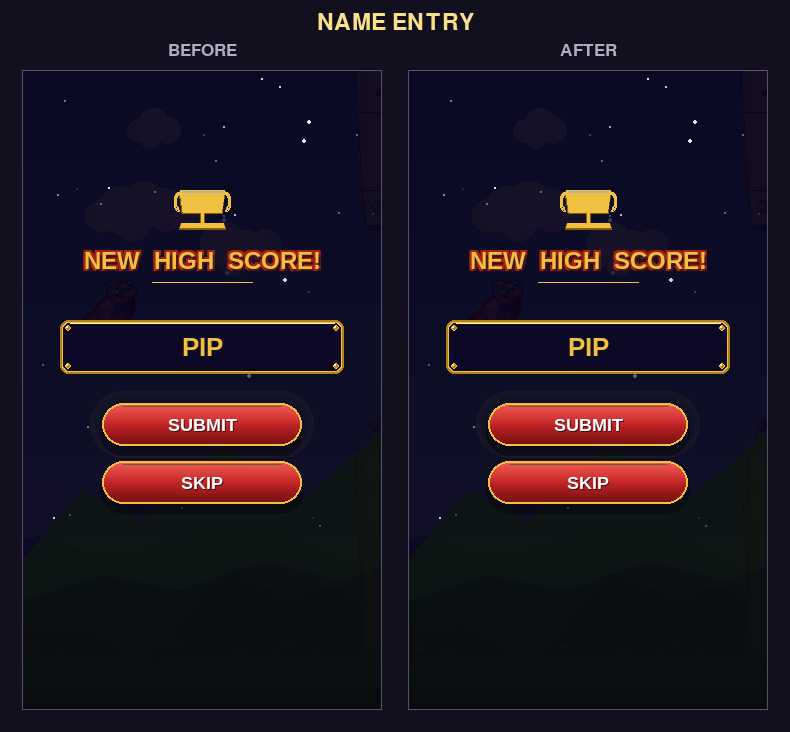
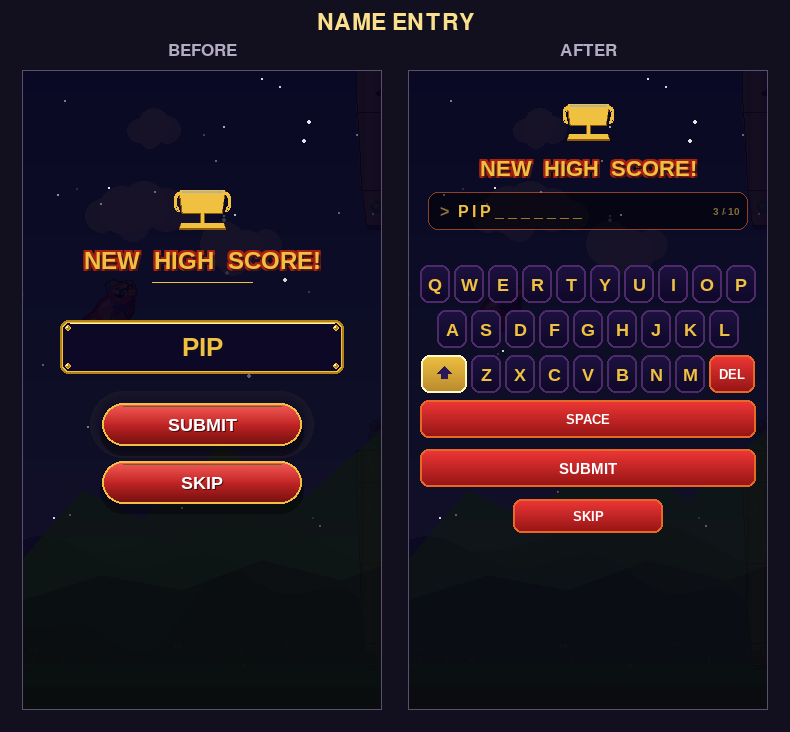
Name entry: unify on the on-screen keyboard for both build targets
The native build's name-entry was a keyboard-less nameplate (typed via a
physical keyboard) — never matching the web build, whose JS overlay shows an
on-screen QWERTY keyboard. Port that keyboard to pygame so native uses the
identical screen: draw_name_entry now renders the QWERTY layout (navy letter
keys, scarlet SPACE/SUBMIT/SKIP, shift with caps glow, a filling buffer +
N/10 counter) and exposes per-key rects; scenes.py routes taps to them
(shift/back/space/submit/skip + auto-shift-off after a letter), name length
capped at 10 to match. The web overlay is unchanged.

Refreshed before/after + a standalone current shot under docs/ui_audit/.

https://claude.ai/code/session_017Z3zLhntZrsy2aMti6pFtg

Changed region(s): [[0.5165, 0.1202, 0.9722, 0.7514], [0.9114, 0.2705, 0.9418, 0.3005]]

diff --git a/game/hud.py b/game/hud.py
@@ -1158,6 +1158,44 @@ def _score_plaque(surf, rect, score: int, best: int, new_best: bool):
     surf.blit(cf, cf.get_rect(center=(rect.centerx, rect.bottom - 20)))
 
 
+# ── Name-entry on-screen keyboard (mirrors the web overlay) ──────────────────
+_KEY_BORDER = (78, 42, 106)       # #4e2a6a — letter-key rim
+_KEY_FACE_TOP = (29, 18, 64)      # #1d1240 — letter-key gradient top
+_KEY_FACE_BOT = (15, 8, 40)       # #0f0828 — letter-key gradient bottom
+
+
+def _kbd_key(surf, rect, label, font, special=False, active=False):
+    """One virtual-keyboard key. Letter keys are navy with gold glyphs;
+    action keys (shift/back/space/submit/skip) are scarlet; an active SHIFT
+    glows gold — matching the web name-entry overlay."""
+    if active:
+        top, bot, border, txt = _GOLD_BRIGHT, (184, 138, 46), (255, 248, 200), (42, 24, 88)
+    elif special:
+        top, bot, border, txt = _SCARLET_TOP, _SCARLET_BOT, _ORANGE_BORDER, WHITE
+    else:
+        top, bot, border, txt = _KEY_FACE_TOP, _KEY_FACE_BOT, _KEY_BORDER, _GOLD_BRIGHT
+    body = pygame.Surface(rect.size, pygame.SRCALPHA)
+    for yy in range(rect.height):
+        pygame.draw.line(body, lerp_color(top, bot, yy / max(1, rect.height - 1)),
+                         (0, yy), (rect.width, yy))
+    mask = pygame.Surface(rect.size, pygame.SRCALPHA)
+    pygame.draw.rect(mask, (255, 255, 255, 255),
+                     (0, 0, rect.width, rect.height), border_radius=8)
+    body.blit(mask, (0, 0), special_flags=pygame.BLEND_RGBA_MIN)
+    pygame.draw.rect(body, border, (0, 0, rect.width, rect.height),
+                     width=2, border_radius=8)
+    surf.blit(body, rect.topleft)
+    if label:
+        img = font.render(label, True, txt)
+        surf.blit(img, img.get_rect(center=rect.center))
+
+
+def _draw_up_arrow(surf, cx, cy, s, color):
+    """Procedural SHIFT glyph (the font lacks ⇧) — triangle head + stem."""
+    pygame.draw.polygon(surf, color, [(cx, cy - s), (cx - s, cy), (cx + s, cy)])
+    pygame.draw.rect(surf, color, (cx - s // 2, cy, s, s - 1))
+
+
 class HUD:
     def __init__(self):
         self.pause_btn = PauseButton()
@@ -1167,9 +1205,10 @@ class HUD:
         # scores / rank / error / pending / target size change.
         self._lb_cache: "pygame.Surface | None" = None
         self._lb_cache_key: tuple = ()
-        # Name-entry button rects — populated each frame by draw_name_entry,
-        # read by scenes.py click-handling. Pre-init to empty rects so the
-        # first click before any draw is harmless.
+        # Name-entry key rects — list of (kind, rect) populated each frame by
+        # draw_name_entry, read by scenes.py click-handling. kind is a letter
+        # ('A'..'Z') or an action ('shift'/'back'/'space'/'enter'/'skip').
+        self.name_keys: list = []
         self.name_submit_rect = pygame.Rect(0, 0, 0, 0)
         self.name_skip_rect   = pygame.Rect(0, 0, 0, 0)
         # Run-summary button rects — populated by draw_stats each frame
@@ -1630,80 +1669,104 @@ class HUD:
             self.stats_play_again_rect = pygame.Rect(0, 0, 0, 0)
             self.stats_main_menu_rect = pygame.Rect(0, 0, 0, 0)
 
-    def draw_name_entry(self, surf, dt, buf: str):
+    def draw_name_entry(self, surf, dt, buf: str, caps: bool = True):
+        """On-screen QWERTY name-entry — the same keyboard the web overlay
+        shows, ported to pygame so the native build uses the identical screen.
+        Populates ``self.name_keys`` (list of (kind, rect)) for scenes.py to
+        hit-test. ``caps`` drives the SHIFT glow + letter case."""
         self.title_t += dt
         dim = pygame.Surface((W, H), pygame.SRCALPHA)
         dim.fill((8, 3, 26, 240))
         surf.blit(dim, (0, 0))
-
         _draw_overlay_stars(surf, self._stars, self.title_t)
+        _draw_mountain_silhouette(surf, alpha=140)
 
-        # Trophy above the title — same emblem as the TOP 10 screen.
-        _draw_trophy(surf, W // 2, H // 2 - 180, 22)
+        MAXLEN = 10
+        keys = []
 
-        # Title — gold + red outline to match the mockup
-        _outlined_text(surf, "NEW  HIGH  SCORE!",
-                       (W // 2, H // 2 - 130),
-                       size=24, px=2, shadow_offset=(2, 3))
+        # Trophy + title.
+        _draw_trophy(surf, W // 2, 52, 20)
+        _outlined_text(surf, "NEW  HIGH  SCORE!", (W // 2, 98),
+                       size=22, px=2, shadow_offset=(2, 3))
 
-        # Divider line under the title (mockup convention).
-        pygame.draw.line(surf, (*_GOLD_BRIGHT, 130),
-                         (W // 2 - 50, H // 2 - 108),
-                         (W // 2 + 50, H // 2 - 108), 1)
+        # Buffer slab: '>' prompt + ten slots that fill in + a N/10 counter.
+        br = pygame.Rect(W // 2 - 160, 122, 320, 38)
+        slab = pygame.Surface(br.size, pygame.SRCALPHA)
+        pygame.draw.rect(slab, (0, 0, 0, 120), slab.get_rect(), border_radius=10)
+        pygame.draw.rect(slab, (*_ORANGE_BORDER, 150), slab.get_rect(),
+                         width=1, border_radius=10)
+        surf.blit(slab, br.topleft)
+        pr = _font(16, True).render(">", True, _GOLD_MUTED)
+        pr.set_alpha(160)
+        surf.blit(pr, pr.get_rect(midleft=(br.x + 12, br.centery)))
+        slots = " ".join((buf[i] if i < len(buf) else "_") for i in range(MAXLEN))
+        bimg = _font(16, True).render(slots, True, _GOLD_BRIGHT)
+        surf.blit(bimg, bimg.get_rect(midleft=(br.x + 30, br.centery)))
+        ci = _font(10, True).render(f"{len(buf)} / {MAXLEN}", True, _GOLD_MUTED)
+        ci.set_alpha(150)
+        surf.blit(ci, ci.get_rect(midright=(br.right - 8, br.centery)))
 
-        # Engraved nameplate (gold rim + corner rivets + dark navy face)
-        # in place of the plain orange-bordered input field.
-        fw, fh = 284, 54
-        fx, fy = W // 2 - fw // 2, H // 2 - 70
-        plate_rect = pygame.Rect(fx, fy, fw, fh)
-        pygame.draw.rect(surf, _GOLD_BRIGHT, plate_rect, border_radius=8)
-        inner = plate_rect.inflate(-6, -6)
-        pygame.draw.rect(surf, _PANEL_DARK, inner, border_radius=6)
-        pygame.draw.rect(surf, _GOLD_DEEP, plate_rect,
-                         width=2, border_radius=8)
-        # Subtle cream highlight just inside the top edge.
-        pygame.draw.line(surf, (255, 240, 180),
-                         (plate_rect.x + 10, plate_rect.y + 3),
-                         (plate_rect.right - 10, plate_rect.y + 3), 1)
-        # Four corner rivets.
-        for rx, ry in (
-            (plate_rect.x + 8, plate_rect.y + 8),
-            (plate_rect.right - 8, plate_rect.y + 8),
-            (plate_rect.x + 8, plate_rect.bottom - 8),
-            (plate_rect.right - 8, plate_rect.bottom - 8),
-        ):
-            pygame.draw.circle(surf, _GOLD_DEEP, (rx, ry), 3)
-            pygame.draw.circle(surf, _GOLD_BRIGHT, (rx, ry), 3, 1)
-            pygame.draw.circle(surf, (255, 240, 180), (rx - 1, ry - 1), 1)
+        # Keyboard.
+        GAP, KH, ROWG, KW, SW = 4, 38, 7, 30, 46
+        lf = _font(18, True)   # letter glyphs
+        af = _font(13, True)   # action words
 
-        # Typed text — gold with a soft black drop shadow, no cursor.
-        tf = _font(26, True)
-        if buf:
-            sh = tf.render(buf, True, NEAR_BLACK)
-            sh.set_alpha(180)
-            txt = tf.render(buf, True, _GOLD_BRIGHT)
-            tr = txt.get_rect(center=(W // 2, fy + fh // 2))
-            surf.blit(sh, (tr.x + 1, tr.y + 2))
-            surf.blit(txt, tr)
-        else:
-            placeholder = _font(18, False).render("TYPE YOUR NAME…",
-                                                  True, _GOLD_MUTED)
-            placeholder.set_alpha(100)
-            surf.blit(placeholder,
-                      placeholder.get_rect(center=(W // 2, fy + fh // 2)))
+        def _row_x0(total_w):
+            return (W - total_w) // 2
 
-        # Mountain silhouette belongs to the backdrop — drawn before the
-        # buttons so SUBMIT / SKIP sit on top of any scenery, never behind it.
-        _draw_mountain_silhouette(surf, alpha=160)
+        def _letters(text, y):
+            x = _row_x0(len(text) * KW + (len(text) - 1) * GAP)
+            for ch in text:
+                rect = pygame.Rect(x, y, KW, KH)
+                _kbd_key(surf, rect, ch if caps else ch.lower(), lf)
+                keys.append((ch, rect))
+                x += KW + GAP
 
-        # Paired action buttons — SUBMIT promoted to the primary pill
-        # so it carries the gold halo in the mockup.
-        self.name_submit_rect = _pill_btn(
-            surf, (W // 2, H // 2 + 34), "SUBMIT",
-            size=18, alpha=255, min_width=200, primary=True)
-        self.name_skip_rect = _pill_btn(
-            surf, (W // 2, H // 2 + 92), "SKIP",
-            size=18, alpha=255, min_width=200)
+        y = 195
+        _letters("QWERTYUIOP", y)
+        y += KH + ROWG
+        _letters("ASDFGHJKL", y)
+
+        # Row 3: SHIFT + ZXCVBNM + DEL.
+        y += KH + ROWG
+        mid = "ZXCVBNM"
+        x = _row_x0(SW * 2 + len(mid) * KW + (len(mid) + 1) * GAP)
+        shift_rect = pygame.Rect(x, y, SW, KH)
+        _kbd_key(surf, shift_rect, "", af, special=not caps, active=caps)
+        _draw_up_arrow(surf, shift_rect.centerx, shift_rect.centery - 1, 7,
+                       (42, 24, 88) if caps else WHITE)
+        keys.append(("shift", shift_rect))
+        x += SW + GAP
+        for ch in mid:
+            rect = pygame.Rect(x, y, KW, KH)
+            _kbd_key(surf, rect, ch if caps else ch.lower(), lf)
+            keys.append((ch, rect))
+            x += KW + GAP
+        back_rect = pygame.Rect(x, y, SW, KH)
+        _kbd_key(surf, back_rect, "DEL", af, special=True)
+        keys.append(("back", back_rect))
+
+        # Row 4: SPACE, Row 5: SUBMIT — both full keyboard width.
+        full_w = 10 * KW + 9 * GAP
+        fx = _row_x0(full_w)
+        y += KH + ROWG
+        space_rect = pygame.Rect(fx, y, full_w, KH)
+        _kbd_key(surf, space_rect, "SPACE", af, special=True)
+        keys.append(("space", space_rect))
+        y += KH + ROWG + 4
+        submit_rect = pygame.Rect(fx, y, full_w, KH)
+        _kbd_key(surf, submit_rect, "SUBMIT", _font(15, True), special=True)
+        keys.append(("enter", submit_rect))
+
+        # SKIP — narrower, separated below SUBMIT (a different-class action).
+        y += KH + 12
+        skip_rect = pygame.Rect(W // 2 - 75, y, 150, 34)
+        _kbd_key(surf, skip_rect, "SKIP", af, special=True)
+        keys.append(("skip", skip_rect))
+
+        self.name_keys = keys
+        self.name_submit_rect = submit_rect
+        self.name_skip_rect = skip_rect
 
     def draw_leaderboard(self, surf, dt, scores: list, player_rank: int,
                          cooldown: float, fetch_error: str = ""):

diff --git a/game/scenes.py b/game/scenes.py
@@ -387,6 +387,7 @@ class App:
         self._play_log_task = None  # strong ref for the per-run telemetry POST
         self._lb_task = None  # strong ref for the menu-trophy leaderboard fetch
         self._name_input_buf = ""  # native name-entry text buffer
+        self._name_caps = True     # on-screen keyboard shift (auto-on per name)
 
         # ── Deferred pre-warm queue ─────────────────────────────────────────
         # Two power-ups had per-pickup build cost (GROW: ~50 ms first
@@ -670,7 +671,7 @@ class App:
                     self._submit_name_native(self._name_input_buf.strip())
                 elif e.key == pygame.K_BACKSPACE:
                     self._name_input_buf = self._name_input_buf[:-1]
-                elif e.unicode and e.unicode.isprintable() and len(self._name_input_buf) < 16:
+                elif e.unicode and e.unicode.isprintable() and len(self._name_input_buf) < 10:
                     self._name_input_buf += e.unicode
                 return
             if e.key in (pygame.K_SPACE, pygame.K_UP, pygame.K_w):
@@ -686,18 +687,31 @@ class App:
             self._flap_input(pos)
 
     def _handle_name_entry_click(self, pos) -> bool:
-        """If we're on the native name-entry screen and the click hit the
-        SUBMIT or SKIP button, dispatch and return True. Returns False
-        otherwise so normal flap routing can proceed."""
+        """Route a tap on the native on-screen keyboard. Returns True if a key
+        was hit (so normal flap routing is skipped), False otherwise."""
         import sys as _sys
         if self.state != STATE_NAMEENTRY or _sys.platform == "emscripten":
             return False
-        if self.hud.name_submit_rect.collidepoint(pos):
-            if self._name_input_buf.strip():
-                self._submit_name_native(self._name_input_buf.strip())
-            return True
-        if self.hud.name_skip_rect.collidepoint(pos):
-            self._submit_name_native("")
+        for kind, rect in getattr(self.hud, "name_keys", []):
+            if not rect.collidepoint(pos):
+                continue
+            if kind == "shift":
+                self._name_caps = not self._name_caps
+            elif kind == "back":
+                self._name_input_buf = self._name_input_buf[:-1]
+            elif kind == "space":
+                if 0 < len(self._name_input_buf) < 10 \
+                        and not self._name_input_buf.endswith(" "):
+                    self._name_input_buf += " "
+            elif kind == "enter":
+                if self._name_input_buf.strip():
+                    self._submit_name_native(self._name_input_buf.strip())
+            elif kind == "skip":
+                self._submit_name_native("")
+            elif len(kind) == 1 and kind.isalpha():
+                if len(self._name_input_buf) < 10:
+                    self._name_input_buf += kind if self._name_caps else kind.lower()
+                    self._name_caps = False   # auto-shift off after a letter
             return True
         return False
 
@@ -789,6 +803,7 @@ class App:
         import sys
         self._final_score = self.world.score
         self._name_input_buf = ""
+        self._name_caps = True
         if sys.platform == "emscripten":
             # Browser: kick off async fetch; _on_name_submitted decides
             # qualifies → NAMEENTRY → LEADERBOARD vs back to MENU.
@@ -1201,7 +1216,8 @@ class App:
         elif self.state == STATE_NAMEENTRY:
             import sys as _sys
             if _sys.platform != "emscripten":
-                self.hud.draw_name_entry(self.screen, 1 / 60, self._name_input_buf)
+                self.hud.draw_name_entry(self.screen, 1 / 60,
+                                         self._name_input_buf, caps=self._name_caps)
         elif self.state == STATE_LEADERBOARD:
             self.hud.draw_leaderboard(
                 self.screen, 1 / 60,
